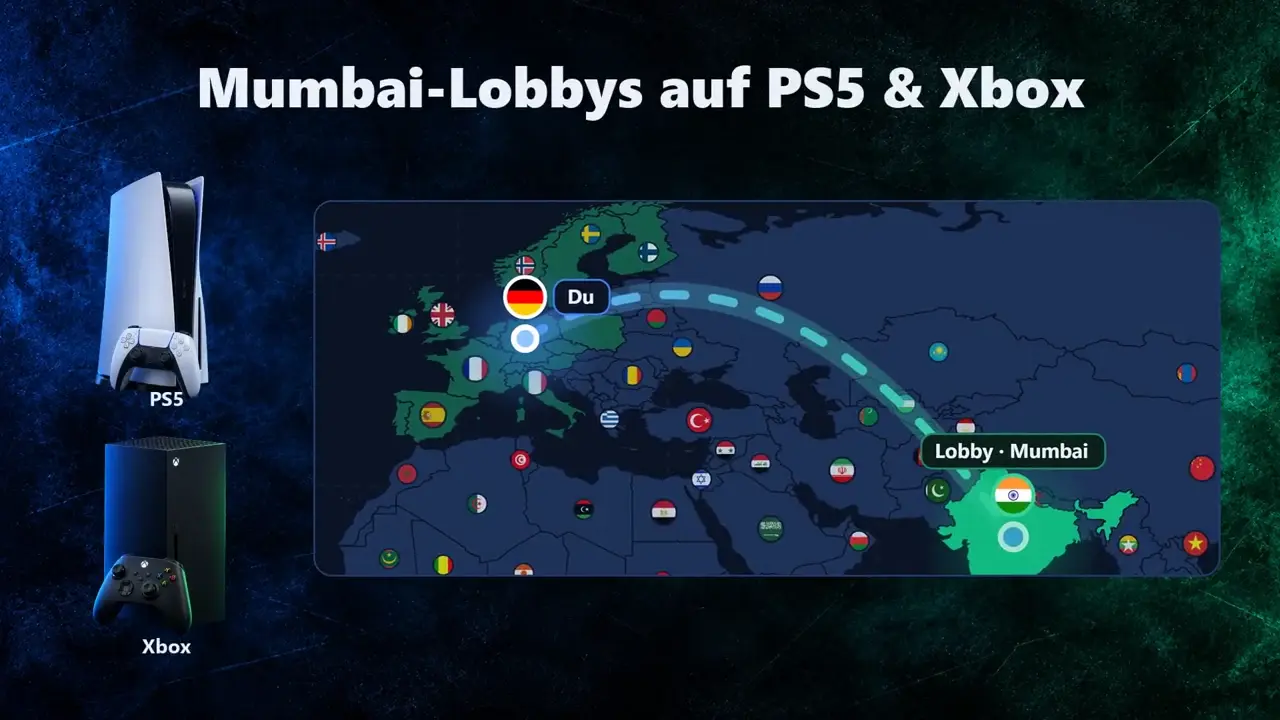
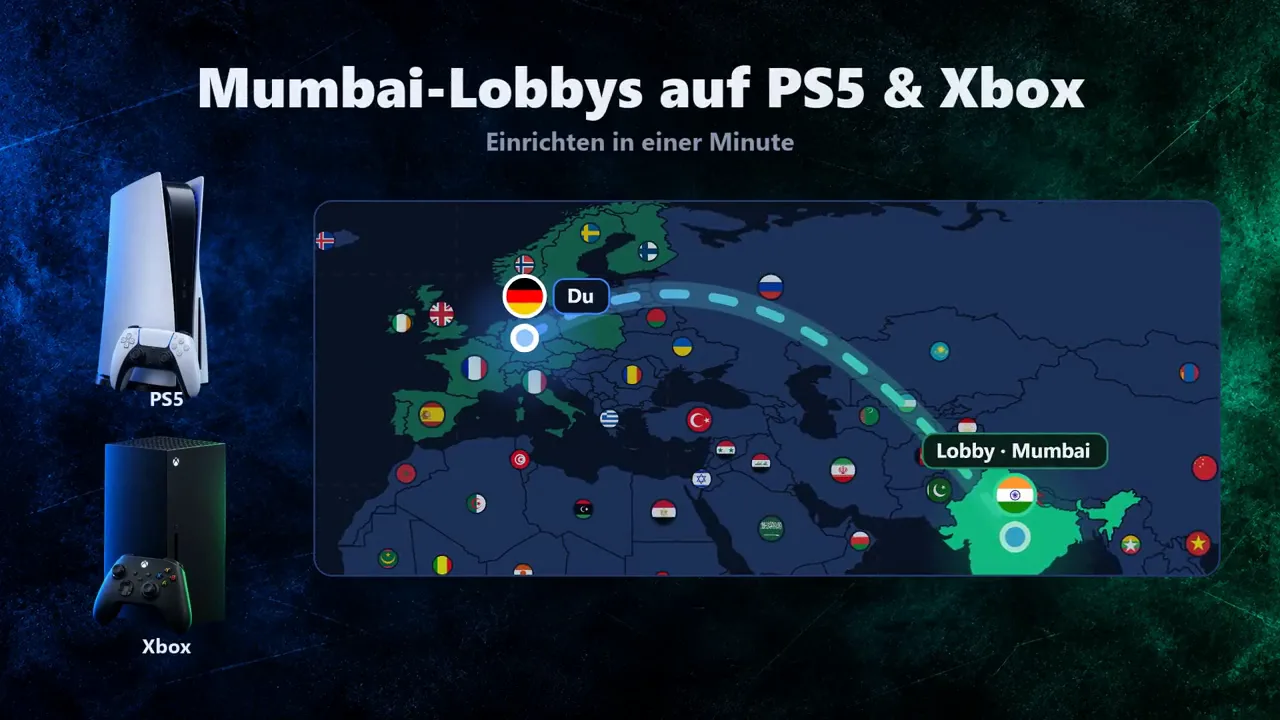
Webseite: Konsolen-Video mit richtigem Vorschaubild

diff --git a/konsole.html b/konsole.html
@@ -420,7 +420,7 @@ html.krueck0 main{display:flex;flex-direction:column}html.krueck0 main>*{order:9
 </section>
 
 <section class="card kvc" id="video"><div class="kvh"><span class="kvl">Video</span><h2>So geht's in einer Minute</h2><p class="sub">Zugang holen, DNS eintragen, einschalten – einmal komplett gezeigt.</p></div>
-  <div class="kvid"><video src="img/konsole-anleitung.mp4?v=2" poster="img/konsole-anleitung.webp?v=1" controls playsinline preload="auto"></video></div>
+  <div class="kvid"><video src="img/konsole-anleitung.mp4?v=2" poster="img/konsole-anleitung.webp?v=2" controls playsinline preload="auto"></video></div>
 </section>
 
 <section class="card" id="kaufen"><h2><i class="kn">1</i><span data-alt="Verlängern">Zugang holen</span></h2>
